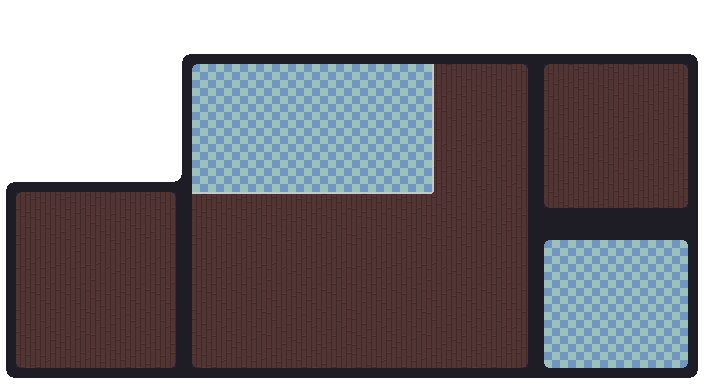
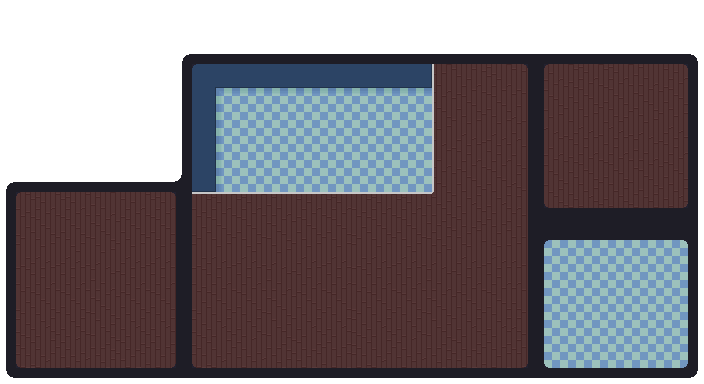
importing upper layer assets

Changed region(s): [[0.25, 0.1562, 0.625, 0.5]]

diff --git a/styles.css b/styles.css
@@ -15,8 +15,8 @@ body {
   height: 384px;
   outline: 1px solid black;
   margin: 0 auto;
-  /* transform: scale(2) translateY(50%); */
-  transform: scale(1) translateY(50%);
+  transform: scale(2) translateY(50%);
+  /* transform: scale(1) translateY(50%); */
 }
 
 .game-container canvas {
